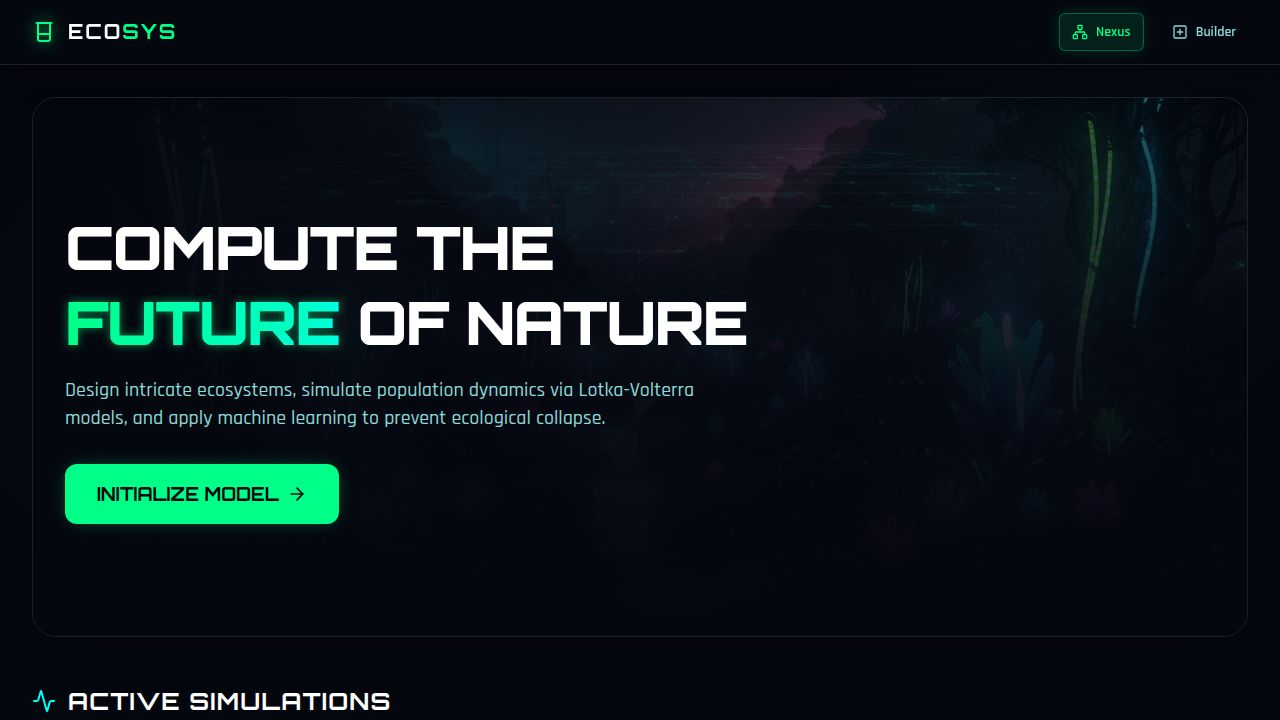
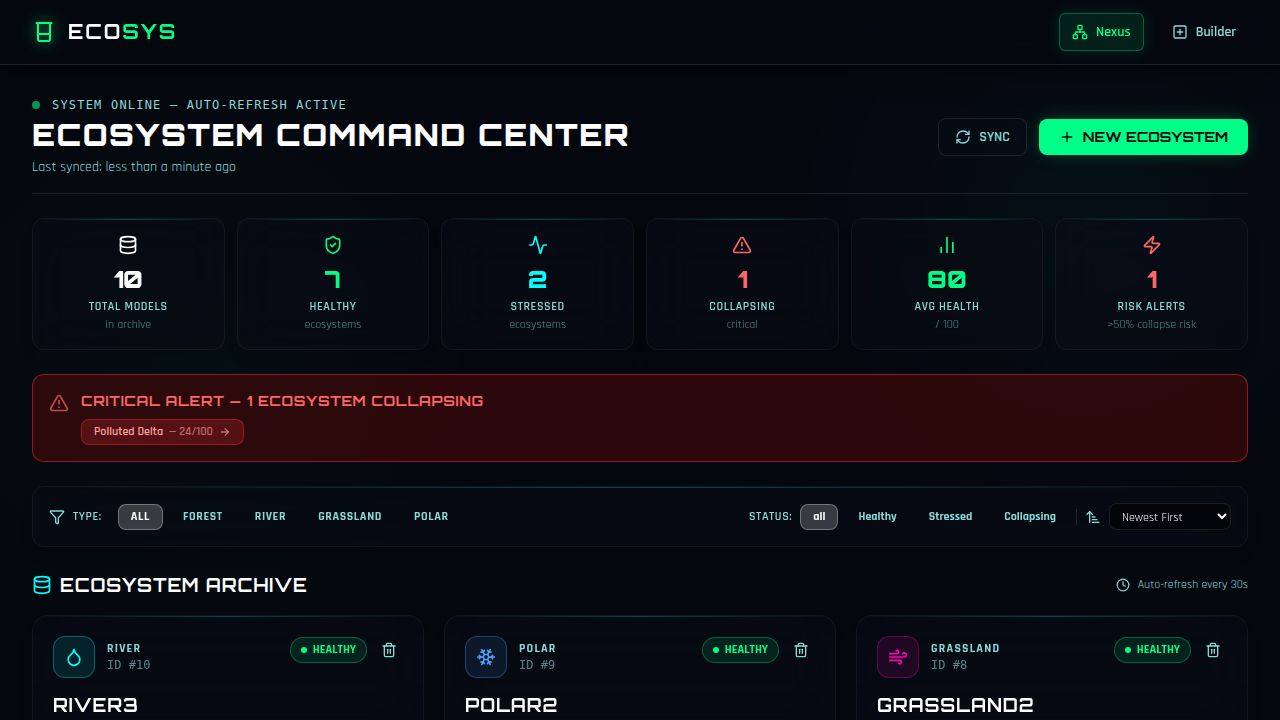
Make application configuration more flexible for deployment
Update Vite configuration to use default values for PORT and BASE_PATH environment variables, ensuring successful production builds.

Replit-Commit-Author: Agent
Replit-Commit-Session-Id: 63c04487-e97e-4052-8d65-6f3ef56b9c49
Replit-Commit-Checkpoint-Type: full_checkpoint
Replit-Commit-Event-Id: 814d52df-a2d4-40e0-9414-50a11c8d7145
Replit-Commit-Screenshot-Url: https://storage.googleapis.com/screenshot-production-us-central1/b54b1351-2feb-4b11-ac07-dfc5eca2f1ad/63c04487-e97e-4052-8d65-6f3ef56b9c49/rGdrQyN
Replit-Helium-Checkpoint-Created: true

diff --git a/artifacts/ecosystem/vite.config.ts b/artifacts/ecosystem/vite.config.ts
@@ -4,27 +4,9 @@ import tailwindcss from "@tailwindcss/vite";
 import path from "path";
 import runtimeErrorOverlay from "@replit/vite-plugin-runtime-error-modal";
 
-const rawPort = process.env.PORT;
-
-if (!rawPort) {
-  throw new Error(
-    "PORT environment variable is required but was not provided.",
-  );
-}
-
+const rawPort = process.env.PORT ?? "3000";
 const port = Number(rawPort);
-
-if (Number.isNaN(port) || port <= 0) {
-  throw new Error(`Invalid PORT value: "${rawPort}"`);
-}
-
-const basePath = process.env.BASE_PATH;
-
-if (!basePath) {
-  throw new Error(
-    "BASE_PATH environment variable is required but was not provided.",
-  );
-}
+const basePath = process.env.BASE_PATH ?? "/";
 
 export default defineConfig({
   base: basePath,